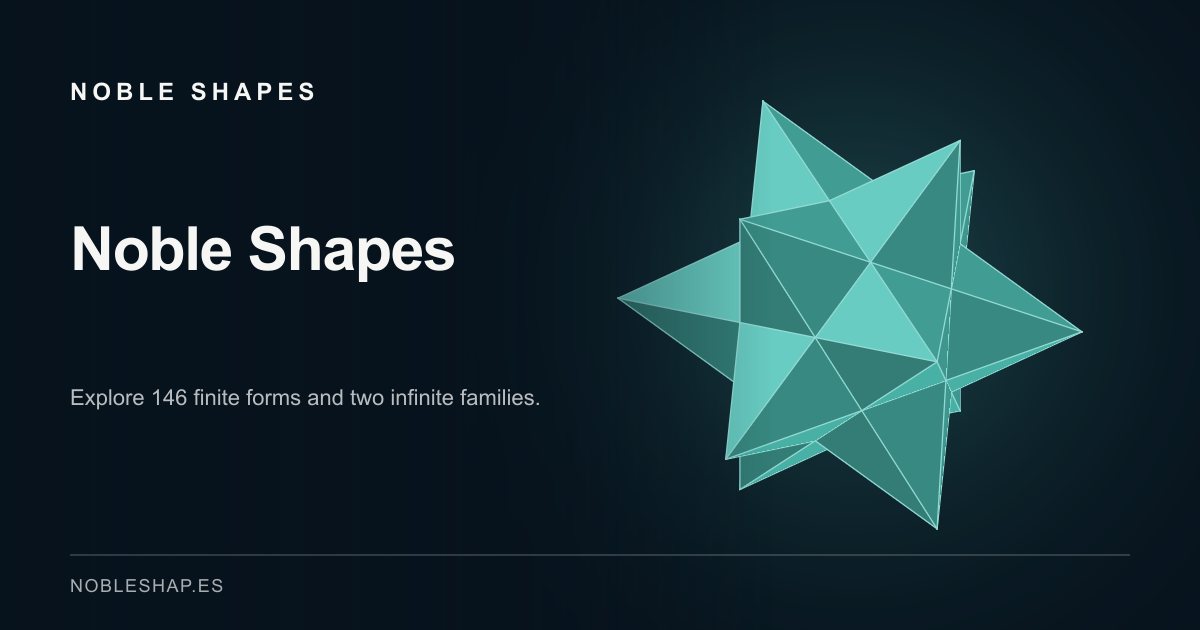
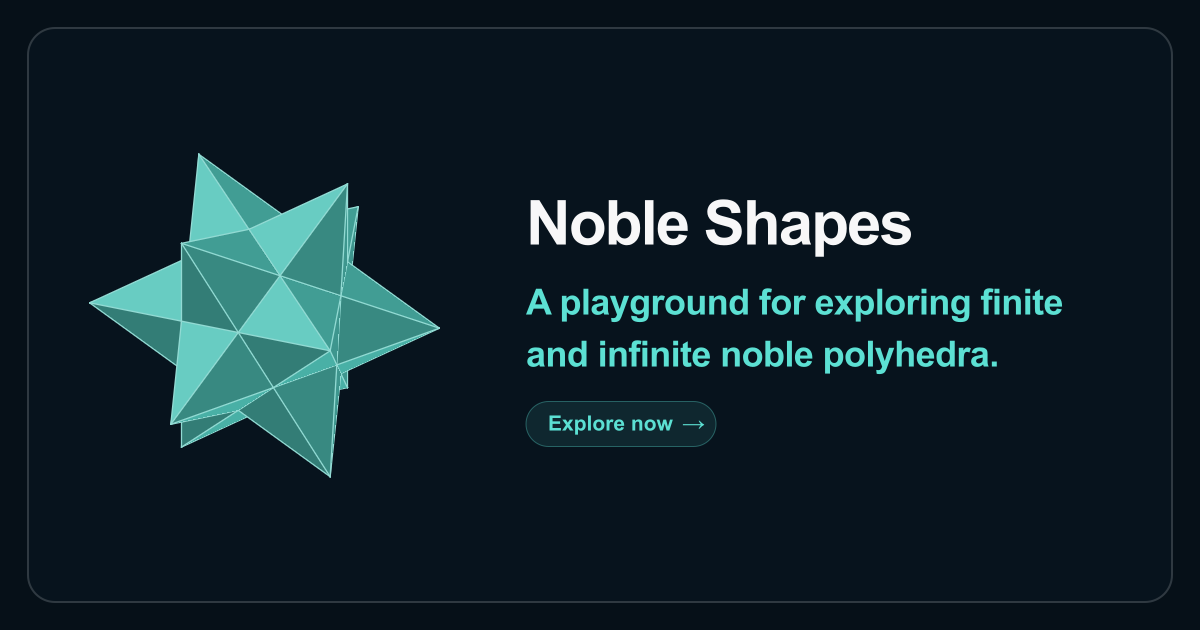
Refresh Noble Shapes social previews

diff --git a/apps/workbench/src/server/og-card.ts b/apps/workbench/src/server/og-card.ts
@@ -5,45 +5,98 @@ import { DEFAULT_DESIGN_OPTIONS, PALETTES, type DesignOptions } from "@noble-sha
 
 const WIDTH = 1200;
 const HEIGHT = 630;
+export const PLAYGROUND_DESCRIPTION = "A playground for exploring finite and infinite noble polyhedra.";
 
 export type PageCard = "default" | "create" | "showcase" | "research" | "documentation";
 
-export const PAGE_CARDS: Record<PageCard, { title: string; subtitle: string; design: DesignOptions }> = {
-  default: { title: "Noble Shapes", subtitle: "Explore 146 finite forms and two infinite families.", design: DEFAULT_DESIGN_OPTIONS },
+export const PAGE_CARDS: Record<PageCard, { title: string; subtitle?: string; design: DesignOptions }> = {
+  default: { title: PLAYGROUND_DESCRIPTION, design: DEFAULT_DESIGN_OPTIONS },
   create: { title: "Create 3D", subtitle: "Choose a noble polyhedron, shape its appearance, and share your design.", design: DEFAULT_DESIGN_OPTIONS },
   showcase: { title: "Shape showcase", subtitle: "A closer look at remarkable noble polyhedra.", design: { ...DEFAULT_DESIGN_OPTIONS, shape: "great-stellated-dodecahedron", palette: "coral", color: PALETTES.coral.color, background: PALETTES.coral.background } },
   research: { title: "The mathematics", subtitle: "One kind of vertex. One kind of face.", design: { ...DEFAULT_DESIGN_OPTIONS, shape: "icosahedron", palette: "gold", color: PALETTES.gold.color, background: PALETTES.gold.background } },
-  documentation: { title: "Build with Noble Shapes", subtitle: "Web components, Node images, a CLI, and a JavaScript API.", design: { ...DEFAULT_DESIGN_OPTIONS, shape: "dodecahedron", palette: "violet", color: PALETTES.violet.color, background: PALETTES.violet.background } },
+  documentation: { title: "Developer tools", subtitle: "Web components, Node images, a CLI, and a JavaScript API.", design: { ...DEFAULT_DESIGN_OPTIONS, shape: "dodecahedron", palette: "violet", color: PALETTES.violet.color, background: PALETTES.violet.background } },
 };
 
 function escapeXml(value: string): string {
   return value.replace(/[&<>"']/g, character => ({ "&": "&amp;", "<": "&lt;", ">": "&gt;", '"': "&quot;", "'": "&apos;" })[character]!);
 }
 
-function titleLines(title: string): string[] {
-  const words = title.split(/\s+/);
-  const lines: string[] = [];
-  for (const word of words) {
-    const last = lines.length - 1;
-    if (last >= 0 && `${lines[last]} ${word}`.length <= 19) lines[last] += ` ${word}`;
-    else lines.push(word);
-  }
-  return lines.slice(0, 4);
+function rgb(hex: string): [number, number, number] {
+  return [1, 3, 5].map(index => Number.parseInt(hex.slice(index, index + 2), 16)) as [number, number, number];
 }
 
-/** Branded card shared by static page previews and dynamic design previews. */
-export async function renderOgCard(design: DesignOptions, title: string, subtitle: string): Promise<Buffer> {
+function blend(from: string, to: string, amount: number): string {
+  const a = rgb(from);
+  const b = rgb(to);
+  return `#${a.map((channel, index) => Math.round(channel * (1 - amount) + b[index]! * amount).toString(16).padStart(2, "0")).join("")}`;
+}
+
+function isLight(hex: string): boolean {
+  const [red, green, blue] = rgb(hex).map(channel => {
+    const value = channel / 255;
+    return value <= 0.04045 ? value / 12.92 : ((value + 0.055) / 1.055) ** 2.4;
+  });
+  return red! * 0.2126 + green! * 0.7152 + blue! * 0.0722 > 0.35;
+}
+
+function textWidth(value: string, fontSize: number): number {
+  return [...value].reduce((width, character) => width + fontSize * (
+    character === " " ? 0.31 : /[ilI.,'!]/.test(character) ? 0.29 : /[MWmw]/.test(character) ? 0.83 : /[A-Z]/.test(character) ? 0.67 : 0.53
+  ), 0);
+}
+
+function wrapText(value: string, fontSize: number, maxWidth: number): string[] {
+  const lines: string[] = [];
+  for (const word of value.split(/\s+/)) {
+    const last = lines.length - 1;
+    const candidate = last < 0 ? word : `${lines[last]} ${word}`;
+    if (last >= 0 && textWidth(candidate, fontSize) <= maxWidth) lines[last] = candidate;
+    else lines.push(word);
+  }
+  return lines;
+}
+
+function svgLines(lines: string[], x: number, y: number, lineHeight: number): string {
+  return lines.map((line, index) => `<tspan x="${x}" y="${y + index * lineHeight}">${escapeXml(line)}</tspan>`).join("");
+}
+
+/** A profile-style card shared by page images and encoded design previews. */
+export async function renderOgCard(design: DesignOptions, title: string, subtitle?: string): Promise<Buffer> {
   const background = design.background === "transparent" ? PALETTES[design.palette].background : design.background;
-  const titleColor = "#f6f7f4";
-  const lines = titleLines(title);
-  const fontSize = lines.length > 2 ? 54 : 61;
-  const lineHeight = 1.07 * fontSize;
-  const titleY = 270 - (lines.length - 1) * 26;
-  const safeTitle = lines.map((line, index) => `<tspan x="70" y="${Math.round(titleY + index * lineHeight)}">${escapeXml(line)}</tspan>`).join("");
-  const backdrop = Buffer.from(`<svg xmlns="http://www.w3.org/2000/svg" width="${WIDTH}" height="${HEIGHT}"><defs><radialGradient id="glow"><stop stop-color="${escapeXml(design.color)}" stop-opacity=".27"/><stop offset="1" stop-color="${escapeXml(background)}" stop-opacity="0"/></radialGradient><linearGradient id="veil"><stop stop-color="${escapeXml(background)}" stop-opacity=".94"/><stop offset=".57" stop-color="${escapeXml(background)}" stop-opacity=".2"/><stop offset="1" stop-color="${escapeXml(background)}" stop-opacity="0"/></linearGradient></defs><rect width="1200" height="630" fill="${escapeXml(background)}"/><ellipse cx="855" cy="290" rx="490" ry="490" fill="url(#glow)"/></svg>`);
-  const shape = Buffer.from(renderPng({ ...design, background: "transparent", width: 700, height: 630, quality: 1 }));
-  const foreground = Buffer.from(`<svg xmlns="http://www.w3.org/2000/svg" width="1200" height="630"><defs><linearGradient id="veil"><stop stop-color="${escapeXml(background)}" stop-opacity=".98"/><stop offset=".55" stop-color="${escapeXml(background)}" stop-opacity=".75"/><stop offset="1" stop-color="${escapeXml(background)}" stop-opacity="0"/></linearGradient></defs><rect width="775" height="630" fill="url(#veil)"/><text x="70" y="100" fill="${titleColor}" font-family="Arial,DejaVu Sans,sans-serif" font-size="24" font-weight="700" letter-spacing="5">NOBLE SHAPES</text><text fill="${titleColor}" font-family="Arial,DejaVu Sans,sans-serif" font-size="${fontSize}" font-weight="700" letter-spacing="-1.5">${safeTitle}</text><text x="70" y="${Math.max(405, Math.round(titleY + (lines.length - 1) * lineHeight + 70))}" fill="#ffffffb8" font-family="Arial,DejaVu Sans,sans-serif" font-size="22">${escapeXml(subtitle)}</text><line x1="70" x2="1130" y1="555" y2="555" stroke="#ffffff55"/><text x="70" y="592" fill="#ffffffa8" font-family="Arial,DejaVu Sans,sans-serif" font-size="18" letter-spacing="1.5">NOBLESHAP.ES</text></svg>`);
-  return sharp(backdrop).composite([{ input: shape, left: 500, top: 0 }, { input: foreground, left: 0, top: 0 }]).png().toBuffer();
+  const light = isLight(background);
+  const outer = blend(background, "#000000", light ? 0.08 : 0.18);
+  const border = blend(background, light ? "#000000" : "#ffffff", light ? 0.12 : 0.16);
+  const heading = light ? "#162027" : "#f7f7f8";
+  const muted = light ? "#4e5860" : "#b3b7bd";
+  const accentSize = subtitle ? 43 : 36;
+  const accentLines = wrapText(title, accentSize, 605);
+  const subtitleSize = 22;
+  const subtitleLines = subtitle ? wrapText(subtitle, subtitleSize, 600) : [];
+  const brandHeight = 74;
+  const accentHeight = accentLines.length * 52;
+  const subtitleHeight = subtitleLines.length * 31;
+  const subtitleGap = subtitle ? 12 : 0;
+  const badgeHeight = 45;
+  const stackHeight = brandHeight + 20 + accentHeight + subtitleGap + subtitleHeight + 20 + badgeHeight;
+  const stackTop = (HEIGHT - stackHeight) / 2;
+  const brandY = stackTop + 61;
+  const accentY = stackTop + brandHeight + 20 + 37;
+  const subtitleY = stackTop + brandHeight + 20 + accentHeight + subtitleGap + 23;
+  const badgeY = stackTop + stackHeight - badgeHeight;
+  const backdrop = Buffer.from(`<svg xmlns="http://www.w3.org/2000/svg" width="${WIDTH}" height="${HEIGHT}">
+    <rect width="1200" height="630" fill="${outer}"/>
+    <rect x="28" y="28" width="1144" height="574" rx="27" fill="${background}" stroke="${border}" stroke-width="2"/>
+  </svg>`);
+  const shape = Buffer.from(renderPng({ ...design, background: "transparent", width: 475, height: 475, quality: 1 }));
+  const foreground = Buffer.from(`<svg xmlns="http://www.w3.org/2000/svg" width="${WIDTH}" height="${HEIGHT}">
+    <text x="526" y="${brandY}" fill="${heading}" font-family="Arial,DejaVu Sans,sans-serif" font-size="62" font-weight="700" letter-spacing="-2">Noble Shapes</text>
+    <text fill="${escapeXml(design.color)}" font-family="Arial,DejaVu Sans,sans-serif" font-size="${accentSize}" font-weight="700" letter-spacing="-.6">${svgLines(accentLines, 526, accentY, 52)}</text>
+    ${subtitle ? `<text fill="${muted}" font-family="Arial,DejaVu Sans,sans-serif" font-size="${subtitleSize}" font-weight="400">${svgLines(subtitleLines, 526, subtitleY, 31)}</text>` : ""}
+    <rect x="526" y="${badgeY}" width="190" height="${badgeHeight}" rx="22.5" fill="${escapeXml(design.color)}" fill-opacity=".1" stroke="${escapeXml(design.color)}" stroke-opacity=".36"/>
+    <text x="548" y="${badgeY + 29}" fill="${escapeXml(design.color)}" font-family="Arial,DejaVu Sans,sans-serif" font-size="21" font-weight="600">Explore now</text>
+    <text x="682" y="${badgeY + 29}" fill="${escapeXml(design.color)}" font-family="Arial,DejaVu Sans,sans-serif" font-size="23">→</text>
+  </svg>`);
+  return sharp(backdrop).composite([{ input: shape, left: 27, top: 78 }, { input: foreground, left: 0, top: 0 }]).png().toBuffer();
 }
 
 export function shapeName(design: DesignOptions): string {

diff --git a/apps/workbench/src/server/og-image.ts b/apps/workbench/src/server/og-image.ts
@@ -1,5 +1,5 @@
 import { DEFAULT_DESIGN_OPTIONS, stringToOptions, type DesignOptions } from "@noble-shapes/render";
-import { renderOgCard, shapeName } from "./og-card.ts";
+import { PLAYGROUND_DESCRIPTION, renderOgCard, shapeName } from "./og-card.ts";
 
 const PREFIX = "/api/image/";
 const CODE_PATTERN = /^np[1-4]_[A-Za-z0-9_-]{1,4092}$/;
@@ -34,8 +34,8 @@ export async function handler(event: Request): Promise<Response> {
   if (method === "HEAD") return { statusCode: 200, headers, body: "" };
 
   try {
-    const png = await renderOgCard(design, code === "default" ? "Noble Shapes" : shapeName(design),
-      code === "default" ? "Explore 146 finite forms and two infinite families." : "Create, customize, and share this noble polyhedron.");
+    const png = await renderOgCard(design, code === "default" ? PLAYGROUND_DESCRIPTION : shapeName(design),
+      code === "default" ? undefined : PLAYGROUND_DESCRIPTION);
     return {
       statusCode: 200,
       headers,
